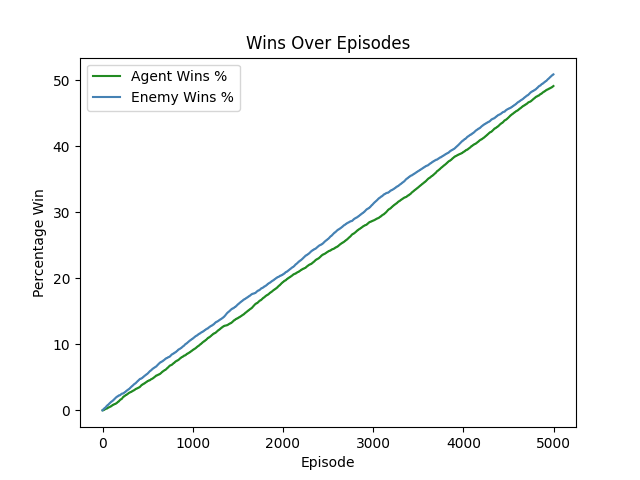
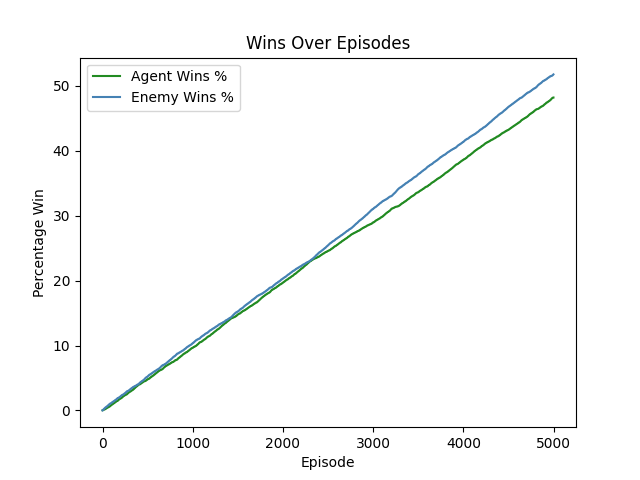
update

diff --git a/training/q_learning.py b/training/q_learning.py
@@ -186,7 +186,7 @@ if __name__ == '__main__':
     # The best configuration.
     exploration_probabilities = [0.2]
     learning_rates = [0.3]
-    discount_factors = [0.3]
+    discount_factors = [0.7]
 
     best_percentage_win_agent = 0
 
@@ -220,8 +220,8 @@ if __name__ == '__main__':
                     pickle.dump(Q, file)
                 print("\nQ model saved successfully.")
             else:
-                with open('../models/q_learning_agent.pkl', 'wb') as file:
-                    pickle.dump(Q, file)
+                # with open('../models/q_learning_agent.pkl', 'wb') as file:
+                #    pickle.dump(Q, file)
                 print("\nQ model saved successfully.")
 
             if not SAVE_CSV_RESULTS:

diff --git a/test/q_learning.py b/test/q_learning.py
@@ -134,14 +134,14 @@ if __name__ == '__main__':
     np.random.seed(42)
     num_wins_agent = 0
 
-    mode = 'Q_SELF-VS-Q'
+    mode = 'Q_SELF-VS-RANDOM'
 
-    for i in tqdm(range(0, 5000), desc='Game progress'):
+    for i in tqdm(range(0, 10000), desc='Game progress'):
         win_agent = execute(mode)
         if win_agent:
             num_wins_agent += 1
 
-    percentage_win_agent = (num_wins_agent / 5000) * 100
+    percentage_win_agent = (num_wins_agent / 10000) * 100
     print(f'\nMode: {mode}')
     print(f'Percentage win agent: {percentage_win_agent}')
     print(f'Percentage win enemy: {100 - percentage_win_agent}')

diff --git a/test/sarsa.py b/test/sarsa.py
@@ -134,14 +134,14 @@ if __name__ == '__main__':
     np.random.seed(42)
     num_wins_agent = 0
 
-    mode = 'S-VS-RANDOM'
+    mode = 'S_SELF-VS-RANDOM'
 
-    for i in tqdm(range(0, 5000), desc='Game progress'):
+    for i in tqdm(range(0, 10000), desc='Game progress'):
         win_agent = execute(mode)
         if win_agent:
             num_wins_agent += 1
 
-    percentage_win_agent = (num_wins_agent / 5000) * 100
+    percentage_win_agent = (num_wins_agent / 10000) * 100
     print(f'\nMode: {mode}')
     print(f'Percentage win agent: {percentage_win_agent}')
     print(f'Percentage win enemy: {100 - percentage_win_agent}')

diff --git a/results/plot_csv.py b/results/plot_csv.py
@@ -15,7 +15,7 @@ g.map(sns.lineplot, "Discount Factor", "Percentage Win Agent", marker="o")
 # Adjust titles and labels
 g.set_titles(col_template="Exploration Prob={col_name}", row_template="Learning Rate={row_name}")
 g.set_axis_labels("Discount Factor", "Percentage Win Agent")
-g.set(ylim=(64, 77))  # Set y-axis limits for better visualization
+g.set(ylim=(50, 60))  # Set y-axis limits for better visualization
 g.tight_layout()  # Adjust layout to prevent overlap
 
 # Display the plots

diff --git a/training/sarsa.py b/training/sarsa.py
@@ -187,9 +187,9 @@ if __name__ == '__main__':
     # discount_factors = [0.3, 0.5, 0.7, 0.9]
 
     # The best configuration.
-    exploration_probabilities = [0.1]
+    exploration_probabilities = [0.2]
     learning_rates = [0.3]
-    discount_factors = [0.9]
+    discount_factors = [0.7]
 
     best_percentage_win_agent = 0
 
